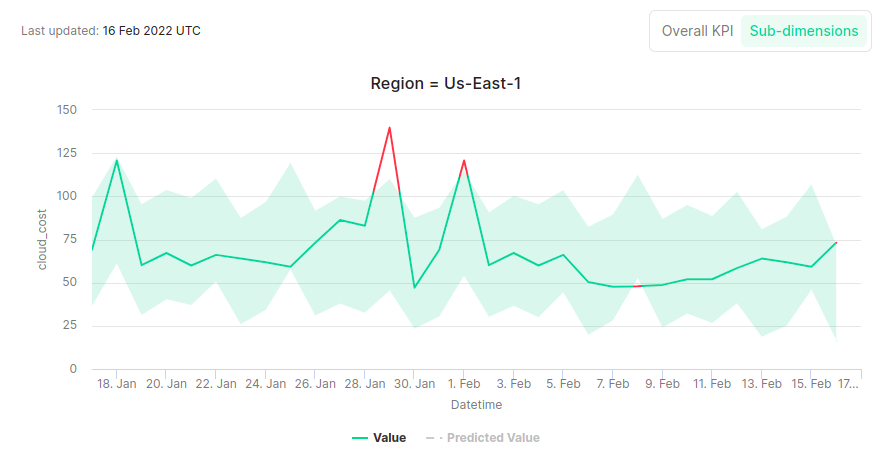
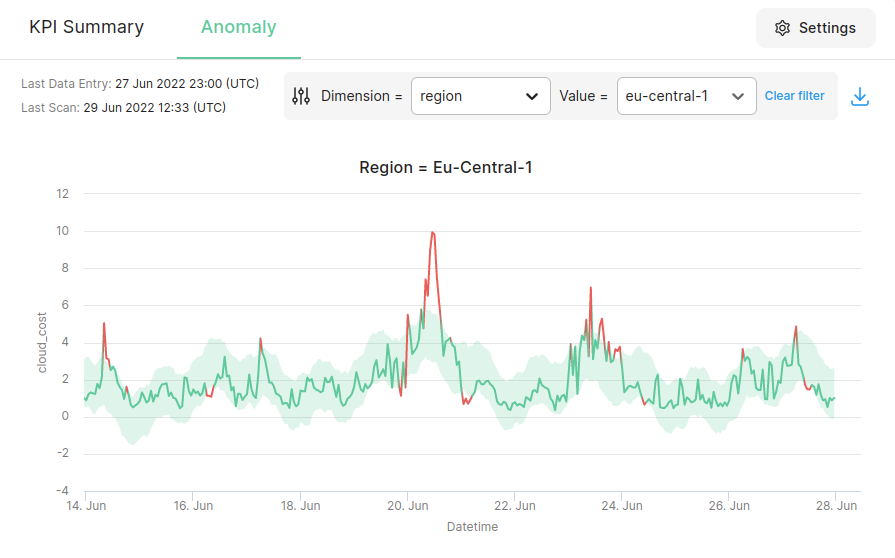
Update Anomaly with Sub-dim Filter

diff --git a/docs/Dashboard/anomaly.md b/docs/Dashboard/anomaly.md
@@ -92,12 +92,10 @@ The drill downs will look similar to this:
 
 A list of Time series charts are displayed where each graph represents a value for a subdimension. You can scroll down your dashboard and look at each of the Drill Down graphs.
 
-## Analysing Sub-Dimensional Anomalies
+## Sub-Dimensional Anomaly Filter 
 
-![Sub-Dimensional Anomalies](/img/kpi-and-dashboard/sub_dim_anomaly.png)
+![Sub-Dimensional Anomaly Filter](/img/kpi-and-dashboard/sub_dim_anomaly.png)
 
-Chaos Genius also provides the added capability of examining anomalies in your dimensions. This will let you know if any of your dimensions suffered any anomalous behaviour on your last updated date.
+Chaos Genius also provides the added capability of examining anomalies in your dimensions. This will let you know if any of your dimensions suffered any anomalous behaviour over your selected time window.
 
-For daily KPI's, the top 10 (based on severity) dimensions that had an anomaly occur on the last day of your KPI are displayed in the UI. For hourly KPI's, we utilize a 24-hour window to rank dimensions (based on severity) and from that the top 10 are displayed. 
-
-To change the number of dimensions being displayed, you can change the `TOP_SUBDIMENSIONS_FOR_ANOMALY` param in the .env file. For more information please refer to the [Config Param Guide](/Operator_Guides/Configuration/config-params.md).
+Users can utilize the filter to select the dimension and it's respective value to view the particular sub-dimension.
